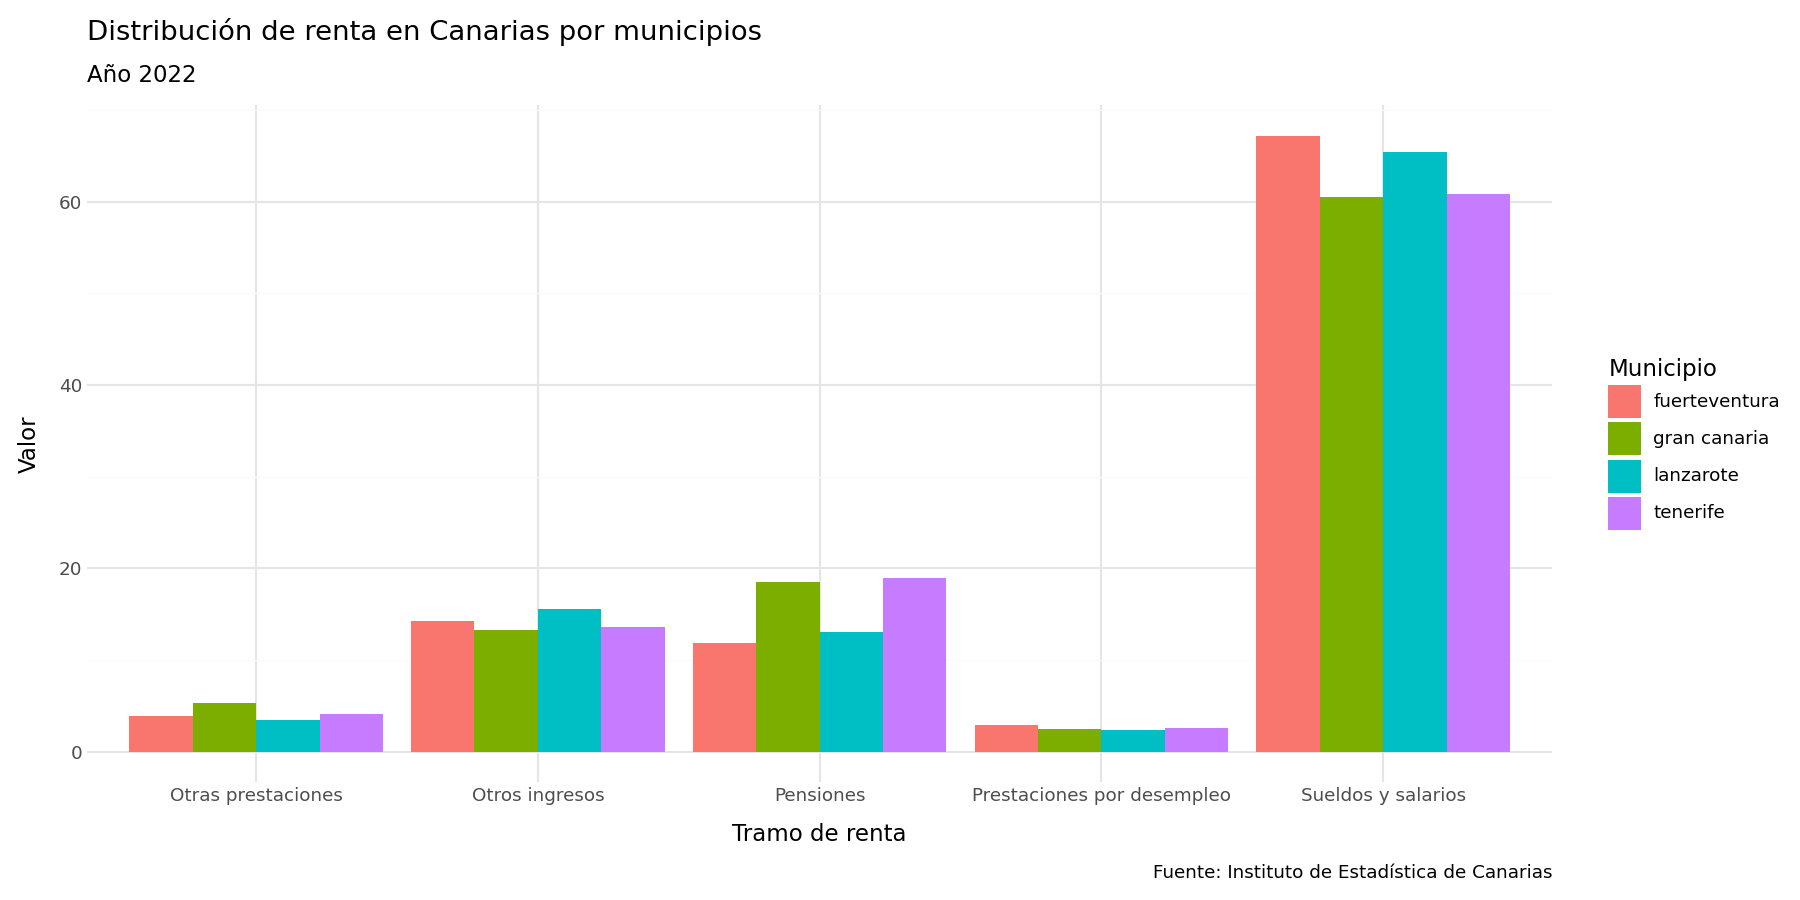
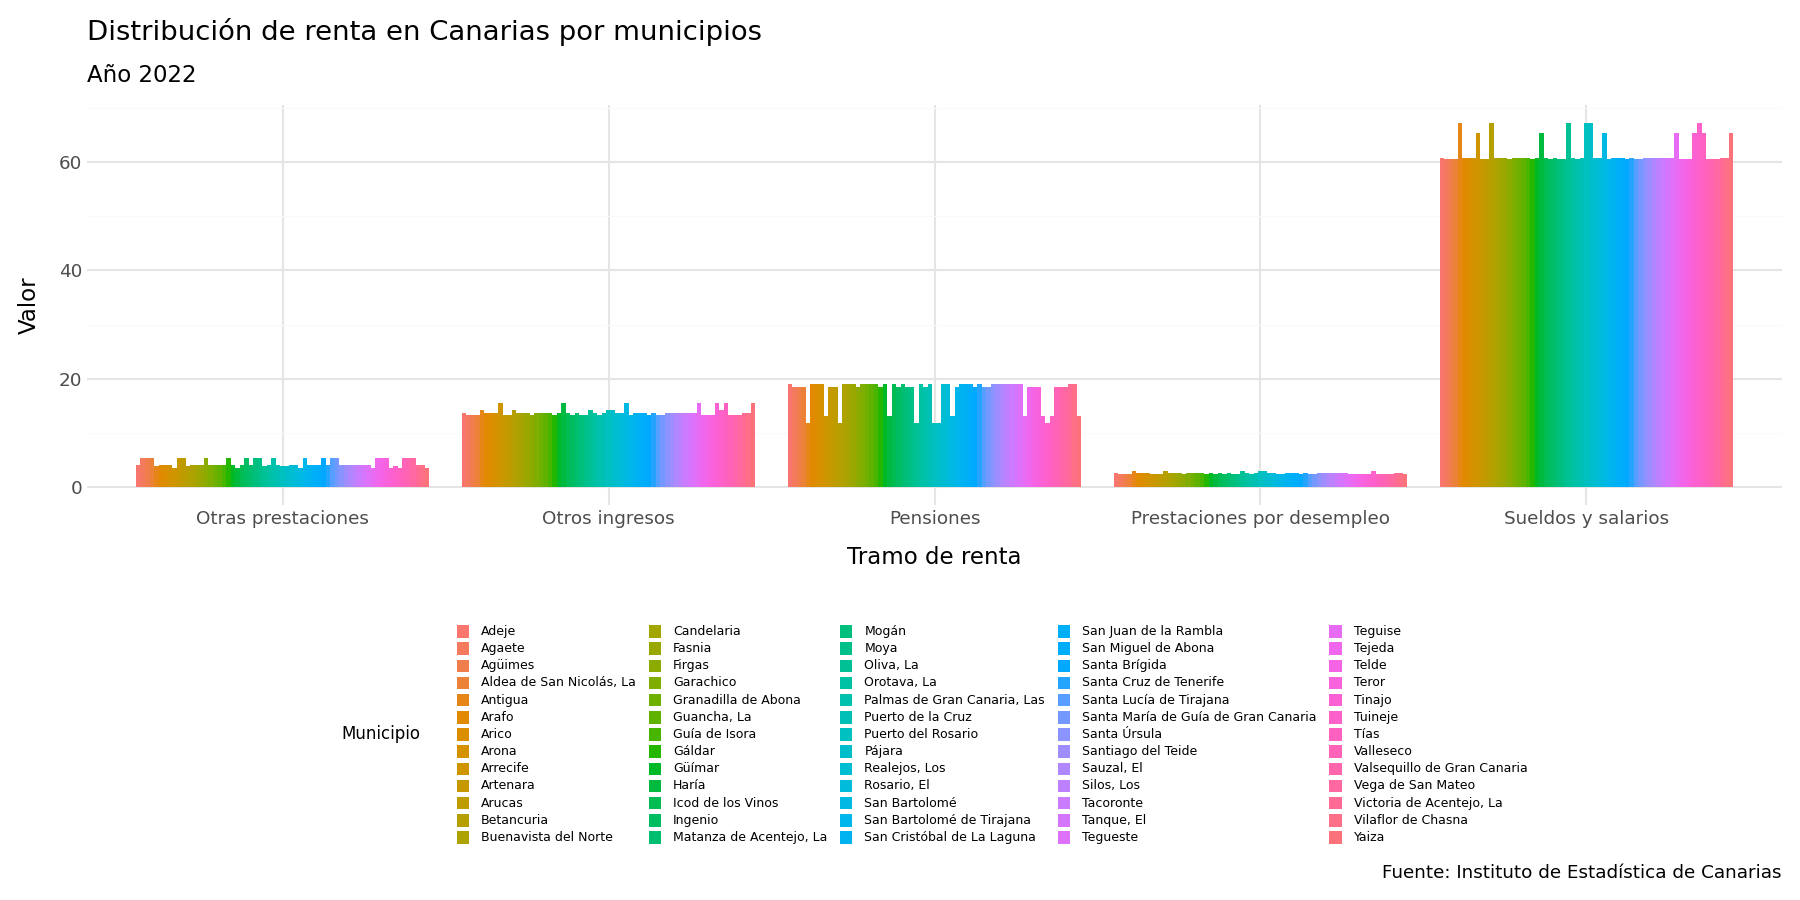
Terminamos las gráficas en el python de prueba

diff --git a/prueba1.py b/prueba1.py
@@ -66,27 +66,30 @@ print("Filas sin unir:",
 
 print(renta_enriquecida)
 
-#renta["cod_mun"] = renta["cod_mun"].astype(str).str.strip()
-
+'''
 print("Filas originales:", len(renta))
 print("Filas filtradas:", len(renta_enriquecida))
-
+'''
 
 
 p =(
     ggplot(renta_enriquecida, aes(
         x="medida",
         y="valor",
-        fill="territorio"
+        fill="NOMBRE"
     ))
      + geom_col(position="dodge")
     + theme_minimal()
+    + theme(legend_position="bottom",
+    legend_title=element_text(size=8),
+    legend_text=element_text(size=6),
+    legend_key_size=6)
     + labs(
         title="Distribución de renta en Canarias por municipios",
         subtitle="Año 2022",
         x="Tramo de renta",
         y="Valor",
-        fill ="Isla",
+        fill ="Municipio",
         caption="Fuente: Instituto de Estadística de Canarias"
     )
 )
@@ -97,4 +100,32 @@ os.makedirs("outputs", exist_ok=True)
 p.save("outputs/grafico_renta_CanariasMunicipio.png", dpi=150, width=12, height=6)
 print("Gráfico guardado en outputs/grafico_renta_CanariasMunicipio.png")
 
-print(p)
+
+renta_enriquecida = renta_enriquecida[
+    renta_enriquecida["medida"] == "Pensiones"
+]
+p =(
+    ggplot(renta_enriquecida, aes(
+        x="medida",
+        y="valor",
+        fill="NOMBRE"
+    ))
+     + geom_col(position="dodge")
+    + theme_minimal()
+    + theme(legend_position="bottom",
+    legend_title=element_text(size=8),
+    legend_text=element_text(size=6),
+    legend_key_size=6)
+    + labs(
+        title="Distribución de pensiones en Canarias por municipios",
+        subtitle="Año 2022",
+        x="Pensiones",
+        y="Valor",
+        fill ="Municipio",
+        caption="Fuente: Instituto de Estadística de Canarias"
+    )
+)
+os.makedirs("outputs", exist_ok=True)
+
+p.save("outputs/grafico_CanariasMunicipioPensiones.png", dpi=150, width=12, height=6)
+print("Gráfico guardado en outputs/grafico_renta_CanariasMunicipioPensiones.png")
